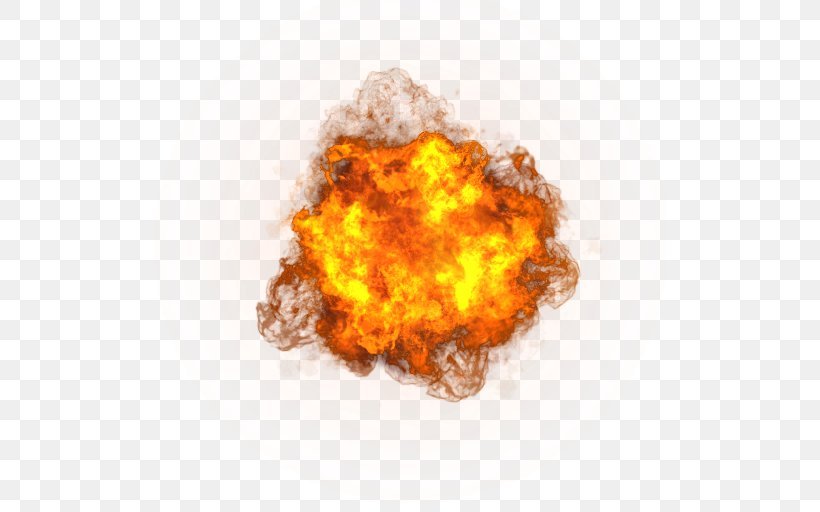
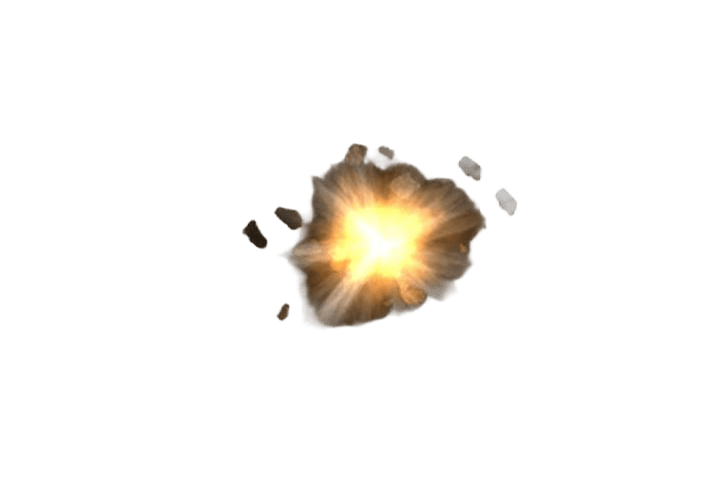
arrumando explosao

Changed region(s): [[0.272, 0.121, 0.7555, 0.8165]]

diff --git a/src/entidades/personagens/Exercito.cpp b/src/entidades/personagens/Exercito.cpp
@@ -97,6 +97,11 @@ namespace Entidades
         {
         }
 
+        bool Exercito::getExplodindo() const
+        {
+            return explodindo;
+        }
+
         void Exercito::executar()
         {
             if (!explodindo)
@@ -105,43 +110,55 @@ namespace Entidades
             }
             else
             {
-                // Controla o tempo de exibição do sprite da explosão (0.3 segundos)
-                if (relogioExplosao.getElapsedTime().asSeconds() < 0.3f)
-                {
-                    Gerenciadores::Gerenciador_Grafico *pGrafico = Gerenciadores::Gerenciador_Grafico::getGerenciador_Grafico();
-
-                    if (pGrafico)
-                    {
-                        // 1. Cria o sprite e puxa a textura correta do seu Gerenciador Gráfico
-                        sf::Sprite spriteExplosao;
-                        sf::Texture &texturaExplosao = pGrafico->getTextura(Gerenciadores::Explosao);
-                        spriteExplosao.setTexture(texturaExplosao);
-
-                        // 2. Centraliza a origem do sprite (para expandir a partir do meio exato do Exercito)
-                        sf::Vector2u tamanhoTextura = texturaExplosao.getSize();
-                        spriteExplosao.setOrigin((float)tamanhoTextura.x / 2.0f, (float)tamanhoTextura.y / 2.0f);
-                        spriteExplosao.setPosition(getPosicao());
-
-                        // 3. Calcula a escala para que o sprite ocupe o tamanho do diâmetro (raio * 2)
-                        float diametroAlvo = (float)raio * 2.0f;
-                        float escalaX = diametroAlvo / (float)tamanhoTextura.x;
-                        float escalaY = diametroAlvo / (float)tamanhoTextura.y;
-                        spriteExplosao.setScale(escalaX, escalaY);
-
-                        // 4. O Gerenciador_Grafico só tem 'desenhaRect', 'desenhaTexto' e 'desenhaEnte'.
-                        // Como um sprite não é um Ente puro e nem um Rect, você pode desenhar direto usando a window:
-                        sf::RenderWindow *janela = pGrafico->getWindow();
-                        if (janela)
-                        {
-                            janela->draw(spriteExplosao);
-                        }
-                    }
-                }
-                else
+                if (relogioExplosao.getElapsedTime().asSeconds() >= 0.3f)
                 {
                     explodindo = false;
-                    // Se o inimigo deve sumir permanentemente após a explosão acabar,
-                    // você pode setar uma flag de destruição aqui (ex: destruir = true;)
+                }
+            }
+        }
+
+        void Exercito::desenharExplosao()
+        {
+            if (!explodindo)
+            {
+                return;
+            }
+
+            if (relogioExplosao.getElapsedTime().asSeconds() >= 0.3f)
+            {
+                return;
+            }
+
+            Gerenciadores::Gerenciador_Grafico *pGrafico = Gerenciadores::Gerenciador_Grafico::getGerenciador_Grafico();
+
+            if (pGrafico && pFig)
+            {
+                sf::Sprite spriteExplosao;
+                sf::Texture &texturaExplosao = pGrafico->getTextura(Gerenciadores::Explosao);
+                spriteExplosao.setTexture(texturaExplosao);
+
+                sf::Vector2u tamanhoTextura = texturaExplosao.getSize();
+                spriteExplosao.setOrigin((float)tamanhoTextura.x / 2.0f, (float)tamanhoTextura.y / 2.0f);
+
+                sf::Vector2f posFig = getPosicao();
+                sf::Vector2f tamFig = pFig->getSize();
+                sf::Vector2f centro = posFig + (tamFig / 2.0f);
+
+                spriteExplosao.setPosition(centro);
+
+                float fatorExplosao = 3.0f;
+                float larguraAlvo = tamFig.x * fatorExplosao;
+                float alturaAlvo = tamFig.y * fatorExplosao;
+
+                float escalaX = larguraAlvo / (float)tamanhoTextura.x;
+                float escalaY = alturaAlvo / (float)tamanhoTextura.y;
+
+                spriteExplosao.setScale(escalaX, escalaY);
+
+                sf::RenderWindow *janela = pGrafico->getWindow();
+                if (janela)
+                {
+                    janela->draw(spriteExplosao);
                 }
             }
         }

diff --git a/src/fases/Fase.cpp b/src/fases/Fase.cpp
@@ -1,6 +1,7 @@
 #include "fases/Fase.hpp"
 #include "entidades/obstaculos/Plataforma.hpp"
 #include "entidades/personagens/Guarda.hpp"
+#include "entidades/personagens/Exercito.hpp"
 
 namespace Fases
 {
@@ -75,6 +76,19 @@ namespace Fases
 
         desenhar();
         lista_ents.desenhar();
+
+        if (GC)
+        {
+            const std::vector<Entidades::Personagens::Inimigo *> &inimigos = GC->getInimigos();
+            for (int i = 0; i < (int)inimigos.size(); i++)
+            {
+                Entidades::Personagens::Exercito *pExercito = dynamic_cast<Entidades::Personagens::Exercito *>(inimigos[i]);
+                if (pExercito)
+                {
+                    pExercito->desenharExplosao();
+                }
+            }
+        }
 
         lista_ents.removerMortos(GC);
 

diff --git a/includes/gerenciadores/Gerenciador_Colisoes.hpp b/includes/gerenciadores/Gerenciador_Colisoes.hpp
@@ -39,6 +39,7 @@ namespace Gerenciadores
         void colisaoInimigoChao(Entidades::Chao *chao);
 
         const std::vector<Entidades::Personagens::Jogador *> &getJogadores() const;
+        const std::vector<Entidades::Personagens::Inimigo *> &getInimigos() const;
 
     private:
         bool verificarColisao(Entidades::Entidade *pe1, Entidades::Entidade *pe2) const;

diff --git a/src/gerenciadores/Gerenciador_Colisoes.cpp b/src/gerenciadores/Gerenciador_Colisoes.cpp
@@ -251,6 +251,11 @@ namespace Gerenciadores
         return LJs;
     }
 
+    const std::vector<Entidades::Personagens::Inimigo *> &Gerenciador_Colisoes::getInimigos() const
+    {
+        return LIs;
+    }
+
     void Gerenciador_Colisoes::executar()
     {
         tratarColisoesJogsInimgs();

diff --git a/includes/entidades/personagens/Exercito.hpp b/includes/entidades/personagens/Exercito.hpp
@@ -25,6 +25,8 @@ namespace Entidades
             void mover();
             void salvar();
             void atirar(Entidades::Projetil *pProjetil) override;
+            void desenharExplosao();
+            bool getExplodindo() const;
         };
     }
 }
